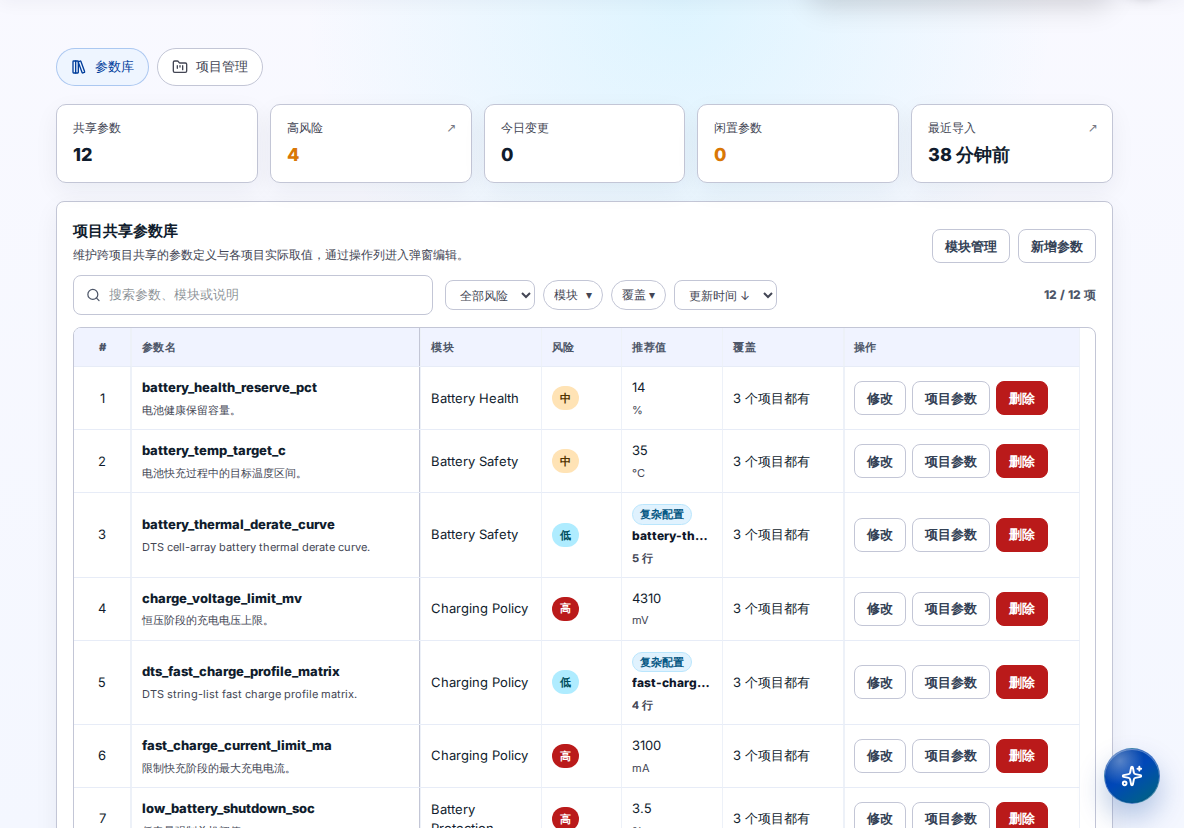
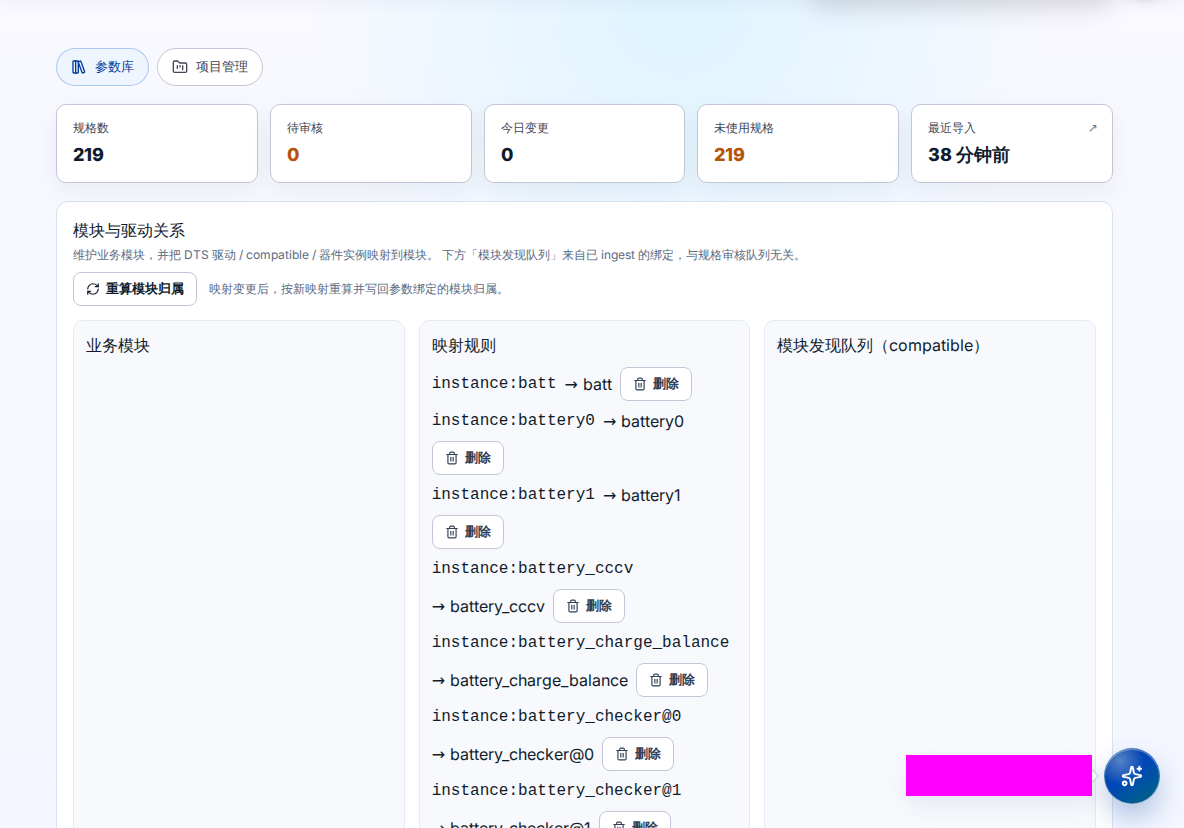
fix(ci): align backend gates and refresh visual baselines
Update surface-era review fixtures, expect VALIDATION_FAILED for
toolchain merge fail-close, clear occurrence decisions on project
delete, and refresh Linux workbench screenshots.

diff --git a/server/modules/parameters/repository.ts b/server/modules/parameters/repository.ts
@@ -1477,6 +1477,17 @@ export async function deleteProject(
     );
     await db.query(
       `
+      delete from dts_property_occurrence_spec_decisions
+      where organization_id = $1
+        and binding_id in (
+          select id from project_parameter_bindings
+          where organization_id = $1 and project_id = $2
+        )
+      `,
+      [organizationId, projectId]
+    );
+    await db.query(
+      `
       delete from project_parameter_bindings
       where organization_id = $1
         and project_id = $2

diff --git a/server/modules/parameter-specs/draftSpecWorkflow.integration.test.ts b/server/modules/parameter-specs/draftSpecWorkflow.integration.test.ts
@@ -37,10 +37,12 @@ function makeAuth(): AuthContext {
 }
 
 function dtsForProperty(propertyKey: string, rawValue: string) {
+  // Scaffolding leaf keeps this off the parameter surface so unmatched props
+  // still open review tasks (surface rows auto-provision provisional specs).
   return `/dts-v1/;
 
 / {
-	ghost: ghost@0 {
+	amba {
 		compatible = "wiseeff,ghost-device";
 		${propertyKey} = ${rawValue};
 	};

diff --git a/server/modules/parameter-specs/matcherScope.integration.test.ts b/server/modules/parameter-specs/matcherScope.integration.test.ts
@@ -34,11 +34,11 @@ const SPEC_B_VERSION = "psv:manual:twin_b_mystery:v1";
 const TWIN_DTS = `/dts-v1/;
 
 / {
-	twin_a: twin@1 {
+	gpio1 {
 		compatible = "wiseeff,twin-device";
 		${PROPERTY_KEY} = <1>;
 	};
-	twin_b: twin@2 {
+	gpio2 {
 		compatible = "wiseeff,twin-device";
 		${PROPERTY_KEY} = <2>;
 	};

diff --git a/server/modules/parameter-specs/specReviewApply.integration.test.ts b/server/modules/parameter-specs/specReviewApply.integration.test.ts
@@ -28,7 +28,7 @@ const PROPERTY_KEY = "mystery_unmatched";
 const UNMATCHED_DTS = `/dts-v1/;
 
 / {
-	ghost: ghost@0 {
+	amba {
 		compatible = "wiseeff,ghost-device";
 		${PROPERTY_KEY} = <1>;
 	};
@@ -374,7 +374,7 @@ describe.skipIf(!databaseAvailable)("spec review apply integration", () => {
     );
     expect(reusedBinding.rows).toHaveLength(1);
     expect(reusedBinding.rows[0]?.parameter_spec_id).toBe(SPEC_ID);
-    expect(reusedBinding.rows[0]?.schema_state).toBe("reviewed");
+    expect(reusedBinding.rows[0]?.schema_state).toBe("valid");
 
     // Dismiss fail-closed on a fresh unmatched property
     const dismissDts = `/dts-v1/;

diff --git a/server/modules/parameter-topology/postCutoverWorkflow.integration.test.ts b/server/modules/parameter-topology/postCutoverWorkflow.integration.test.ts
@@ -2119,8 +2119,8 @@ describe.skipIf(!databaseAvailable)("post-cutover semantic workflow (temp DB)", 
               }
             )
           ).rejects.toMatchObject({
-            code: "CONFLICT",
-            status: 409
+            code: "VALIDATION_FAILED",
+            status: 400
           });
 
           await assertMergeRolledBack(db, request.id, seeded.bindingId, writeLock.baseConfigRevisionId);

diff --git a/server/modules/parameter-specs/specReviewTenantEvidence.integration.test.ts b/server/modules/parameter-specs/specReviewTenantEvidence.integration.test.ts
@@ -33,7 +33,7 @@ const PROPERTY_KEY = "tenant_mystery";
 const UNMATCHED_DTS = `/dts-v1/;
 
 / {
-	ghost: ghost@0 {
+	amba {
 		compatible = "wiseeff,ghost-device";
 		${PROPERTY_KEY} = <1>;
 	};

diff --git a/server/modules/parameter-topology/legacyDependencyGuard.test.ts b/server/modules/parameter-topology/legacyDependencyGuard.test.ts
@@ -18,6 +18,8 @@ const ALLOWED_PATH_SUBSTRINGS = [
   "/parameter-topology/migration.test.ts",
   "/parameters/legacyParameterIdentityAdapter.ts",
   "/parameters/legacyParameterIdentityNames.ts",
+  // Pre-cutover project delete still clears archived flat-identity rows.
+  "/parameters/repository.ts",
   "/parameters/dashboard/legacyDashboardAdapter.ts",
   "/parameters/semanticParameterIdentityNames.ts",
   "/docs/exec-plans/completed/",